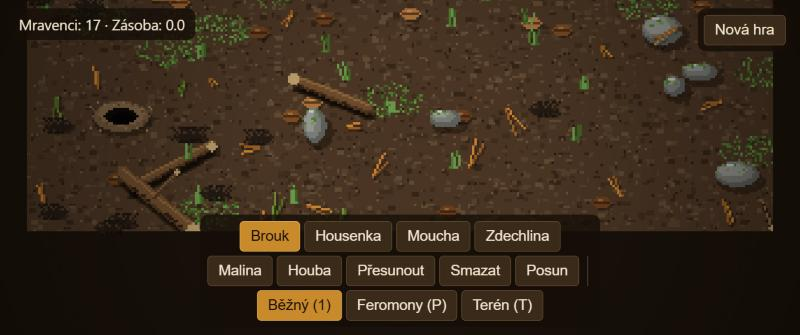
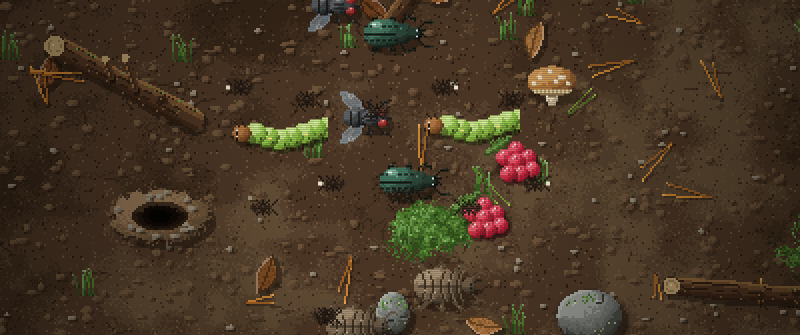
docs: reproducible screenshots from the real Renderer
src/render/screenshots.test.ts (skipped unless ANT_SHOTS is set) renders the
seeded world with the real Renderer and an injected @napi-rs/canvas factory:
ANT_SHOTS=docs/design npx vitest run src/render/screenshots.test.ts
Replaces the stale browser screenshots (now 800x335 canvas only, no HTML toolbar).

diff --git a/src/render/screenshots.test.ts b/src/render/screenshots.test.ts
@@ -1,0 +1,68 @@
+// @ts-nocheck -- node-only helper (fs / process); skipped unless ANT_SHOTS is set, so it never runs in the normal suite.
+/**
+ * Reproducible screenshots from the real Renderer in node (no browser, no HTML toolbar):
+ *   ANT_SHOTS=docs/design npx vitest run src/render/screenshots.test.ts
+ * writes screenshot-normal.png and screenshot-pheromone.png (800 x 335, zoom 4) plus nest-zoom4.png (1200 x 800, zoom 4).
+ * The world is seeded and stepped deterministically, so the output is the same on every run.
+ */
+import { createCanvas } from '@napi-rs/canvas';
+import { mkdirSync, writeFileSync } from 'node:fs';
+import { afterEach, beforeEach, describe, expect, it, vi } from 'vitest';
+import { World } from '../sim/world';
+import { Camera } from '../ui/camera';
+import { Renderer, type View } from './renderer';
+import type { CanvasLike } from './terrainRender';
+
+const dir = process.env.ANT_SHOTS;
+const make = (w: number, h: number): CanvasLike => createCanvas(w, h) as unknown as CanvasLike;
+
+function shot(world: World, w: number, h: number, cx: number, cy: number, view: View, queen = false): Buffer {
+  const canvas = createCanvas(1, 1);
+  Object.assign(canvas, { clientWidth: w, clientHeight: h });
+  const camera = new Camera(w, h);
+  camera.zoom = 4;
+  camera.x = cx;
+  camera.y = cy;
+  const r = new Renderer(canvas as unknown as HTMLCanvasElement, world, camera, make);
+  r.setView(view);
+  if (queen) r.setQueen({ visible: true, x: 40, y: 150, digProgress: 0 });
+  r.draw();
+  return canvas.toBuffer('image/png');
+}
+
+describe.skipIf(!dir)('screenshots', () => {
+  beforeEach(() => vi.stubGlobal('window', { devicePixelRatio: 1, innerWidth: 800, innerHeight: 335 }));
+  afterEach(() => vi.unstubAllGlobals());
+
+  it('writes the PNGs', () => {
+    mkdirSync(dir, { recursive: true });
+    const world = World.create(5);
+    world.placeFood('beetle', 100, 105);
+    world.placeFood('caterpillar', 118, 128);
+    world.placeFood('fly', 84, 98);
+    world.placeFood('berry', 120, 150);
+    world.placeFood('mushroom', 70, 160);
+    world.placeFood('carrion', 90, 178);
+    for (let i = 0; i < 14; i++) world.spawnAnt();
+    for (let i = 0; i < 120; i++) world.step(0.1);
+    // fresh food on top of what the ants have already started to carry away
+    world.placeFood('beetle', 104, 142);
+    world.placeFood('berry', 128, 136);
+    world.placeFood('fly', 92, 126);
+    world.placeFood('mushroom', 138, 118);
+    world.placeFood('carrion', 112, 168);
+    world.placeFood('caterpillar', 70, 130);
+    for (let i = 0; i < 20; i++) world.step(0.1);
+    expect(world.ants.length).toBeGreaterThan(5);
+    // a few ants on the food and on the way back, so every sprite meets an ant in the picture
+    world.ants.slice(0, 10).forEach((a, i) => {
+      a.x = 60 + (i % 5) * 17 + (i >= 5 ? 6 : 0);
+      a.y = 118 + Math.floor(i / 5) * 24 + (i % 3) * 3;
+      a.heading = i % 2 ? 0.4 : Math.PI - 0.3;
+      a.carry = i % 3 === 0 ? 1 : 0;
+    });
+    writeFileSync(`${dir}/screenshot-normal.png`, shot(world, 800, 335, 100, 138, 'normal'));
+    writeFileSync(`${dir}/screenshot-pheromone.png`, shot(world, 800, 335, 100, 138, 'pheromone'));
+    writeFileSync(`${dir}/nest-zoom4.png`, shot(world, 1200, 800, 150, 100, 'normal'));
+  });
+});
